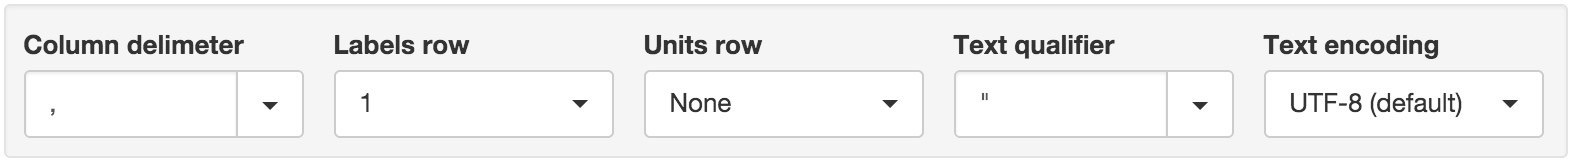
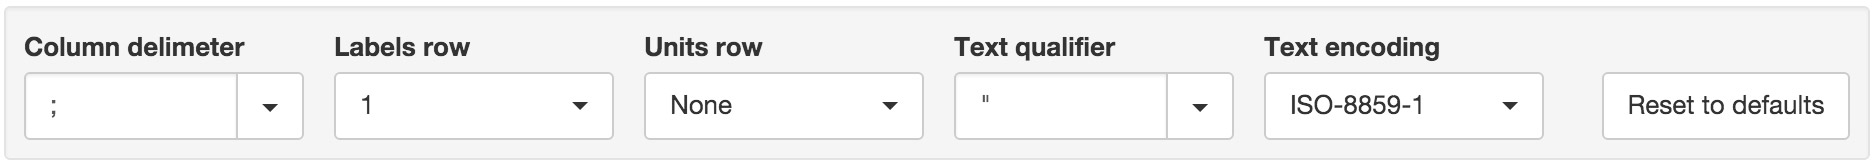
update datasource-file screenshots and info regarding format filter

diff --git a/source/topics/nodes/datasource_file/index.rst b/source/topics/nodes/datasource_file/index.rst
@@ -30,7 +30,7 @@ The general section allows you to specify the type file(s) you would like to col
 
 .. only:: not latex
 
-	.. image:: datasource_file_general.png
+	.. image:: datasource_file_general.jpg
 		:scale: 50 %
 
 	| 
@@ -39,7 +39,7 @@ The general section allows you to specify the type file(s) you would like to col
 
 	| 
 
-	.. image:: datasource_file_general.png
+	.. image:: datasource_file_general.jpg
 
 Source Enabled
 	Uncheck the Source Enabled checkbox to stop collection and prevent alarms and notifications from triggering.
@@ -76,7 +76,7 @@ Configure how you would like to connect to your file(s).
 
 .. only:: not latex
 	
-	.. image:: datasource_file_connection.png
+	.. image:: datasource_file_connection.jpg
 		:scale: 50 %
 
 	| 
@@ -85,7 +85,7 @@ Configure how you would like to connect to your file(s).
 	
 	| 
 
-	.. image:: datasource_file_connection.png
+	.. image:: datasource_file_connection.jpg
 
 Transport type
 	Select the transport used to acquire files:
@@ -96,13 +96,13 @@ Transport type
 
 		.. only:: not latex
 
-			.. image:: datasource_file_connection_dropbox_auth.png
-				:scale: 60 %
+			.. image:: datasource_file_connection_dropbox_auth.jpg
+				:scale: 40 %
 
 		.. only:: latex
 
-			.. image:: datasource_file_connection_dropbox_auth.png
-				:scale: 70 %
+			.. image:: datasource_file_connection_dropbox_auth.jpg
+				:scale: 50 %
 
 		When changing the account, a popup window will be displayed which allows you to login to Dropbox and authorise access as shown above.
 
@@ -183,7 +183,7 @@ Collection is used to specify if and when data should be automatically collected
 
 .. only:: not latex
 
-	.. image:: datasource_file_collection.png
+	.. image:: datasource_file_collection.jpg
 		:scale: 50 %
 
 	| 
@@ -192,7 +192,7 @@ Collection is used to specify if and when data should be automatically collected
 	
 	| 
 
-	.. image:: datasource_file_collection.png
+	.. image:: datasource_file_collection.jpg
 
 Scheduled
 	Enable the schedule for automatic data collection.
@@ -301,7 +301,7 @@ Time allows you to configure the timezone of the Source and associated options.
 
 .. only:: not latex
 
-	.. image:: datasource_file_time.png
+	.. image:: datasource_file_time.jpg
 		:scale: 50 %
 
 	| 
@@ -310,7 +310,7 @@ Time allows you to configure the timezone of the Source and associated options.
 	
 	| 
 
-	.. image:: datasource_file_time.png
+	.. image:: datasource_file_time.jpg
 
 Timezone
 	Select the timezone the Source uses for storing historic data. Choose *(GMT+00:00) UTC* if data timestamps are in UTC.
@@ -384,6 +384,9 @@ Text qualifier
 
 Text encoding
 	The encoding format of the text file. If you notice special characters displayed incorrectly in the Parser Preview, you may need to change this setting.
+
+Reset to defaults
+	Resets parser configuration and joins to system defaults.
 
 .. only:: not latex
 
@@ -496,7 +499,7 @@ Data values in input files are commonly split into separate fields and therefore
 
 .. only:: not latex
 
-	.. image:: parser_join_time.png
+	.. image:: parser_join_time.jpg
 		:scale: 50 %
 
 	| 
@@ -505,7 +508,7 @@ Data values in input files are commonly split into separate fields and therefore
 	
 	| 
 
-	.. image:: parser_join_time.png
+	.. image:: parser_join_time.jpg
 
 You can join additional columns via the *Add New* row. Select the column to join from the Joins drop down and the Field to be assigned. Columns are joined in the order they are displayed (top to bottom) and the result is shown in the Parser Preview. 
 
@@ -540,7 +543,7 @@ You may need to split or exclude data within a single column. Add a Separator fi
     
 .. only:: not latex
 
-	.. image:: parser_join_coordinates.png
+	.. image:: parser_join_coordinates.jpg
 		:scale: 50 %
 
 	| 
@@ -549,7 +552,7 @@ You may need to split or exclude data within a single column. Add a Separator fi
 	
 	| 
 
-	.. image:: parser_join_coordinates.png
+	.. image:: parser_join_coordinates.jpg
 
 .. raw:: latex
 
@@ -565,7 +568,7 @@ All columns can be re-used as joins on other columns. For example you can have m
     
 .. only:: not latex
 
-	.. image:: parser_join_quality.png
+	.. image:: parser_join_quality.jpg
 		:scale: 50 %
 
 	| 
@@ -574,7 +577,28 @@ All columns can be re-used as joins on other columns. For example you can have m
 	
 	| 
 
-	.. image:: parser_join_quality.png
+	.. image:: parser_join_quality.jpg
+
+
+You can optionally specify a **format** and **formatFilter** to include or exclude the field or the entire record based on the data matching the specified format.
+In the example below all records will be excluded where the data in *Column 6 (Quality)* equals *50*.
+
+.. raw:: latex
+
+    \vspace{-10pt}
+    
+.. only:: not latex
+
+	.. image:: parser_join_filter.jpg
+		:scale: 50 %
+
+	| 
+
+.. only:: latex
+	
+	| 
+
+	.. image:: parser_join_filter.jpg
 
 .. raw:: latex
 
